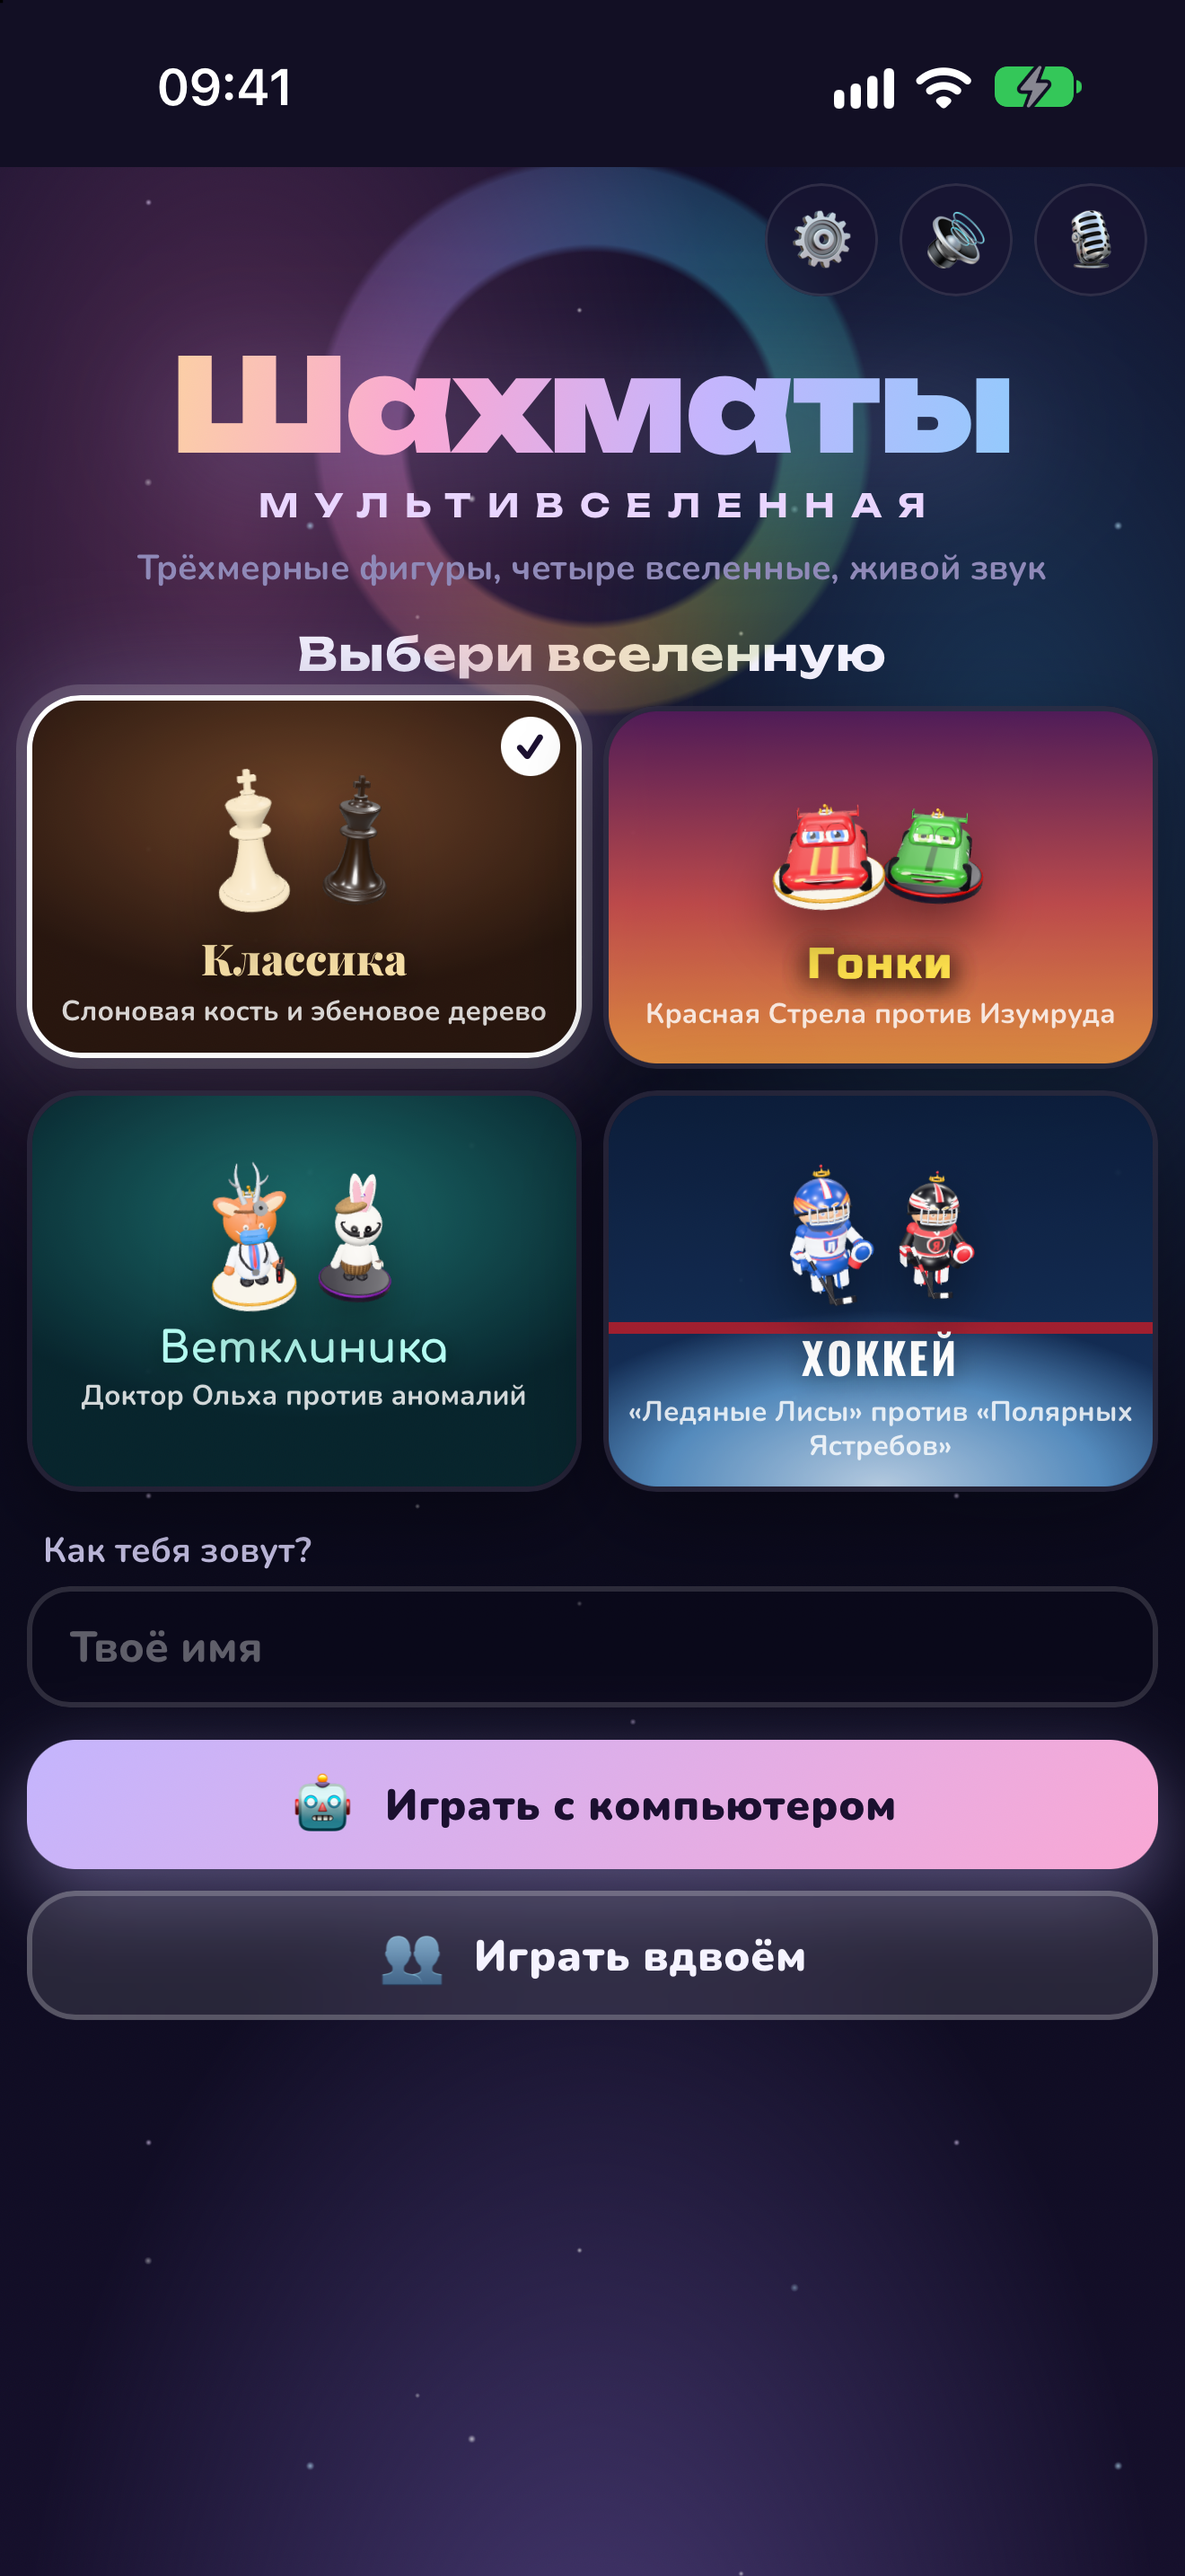
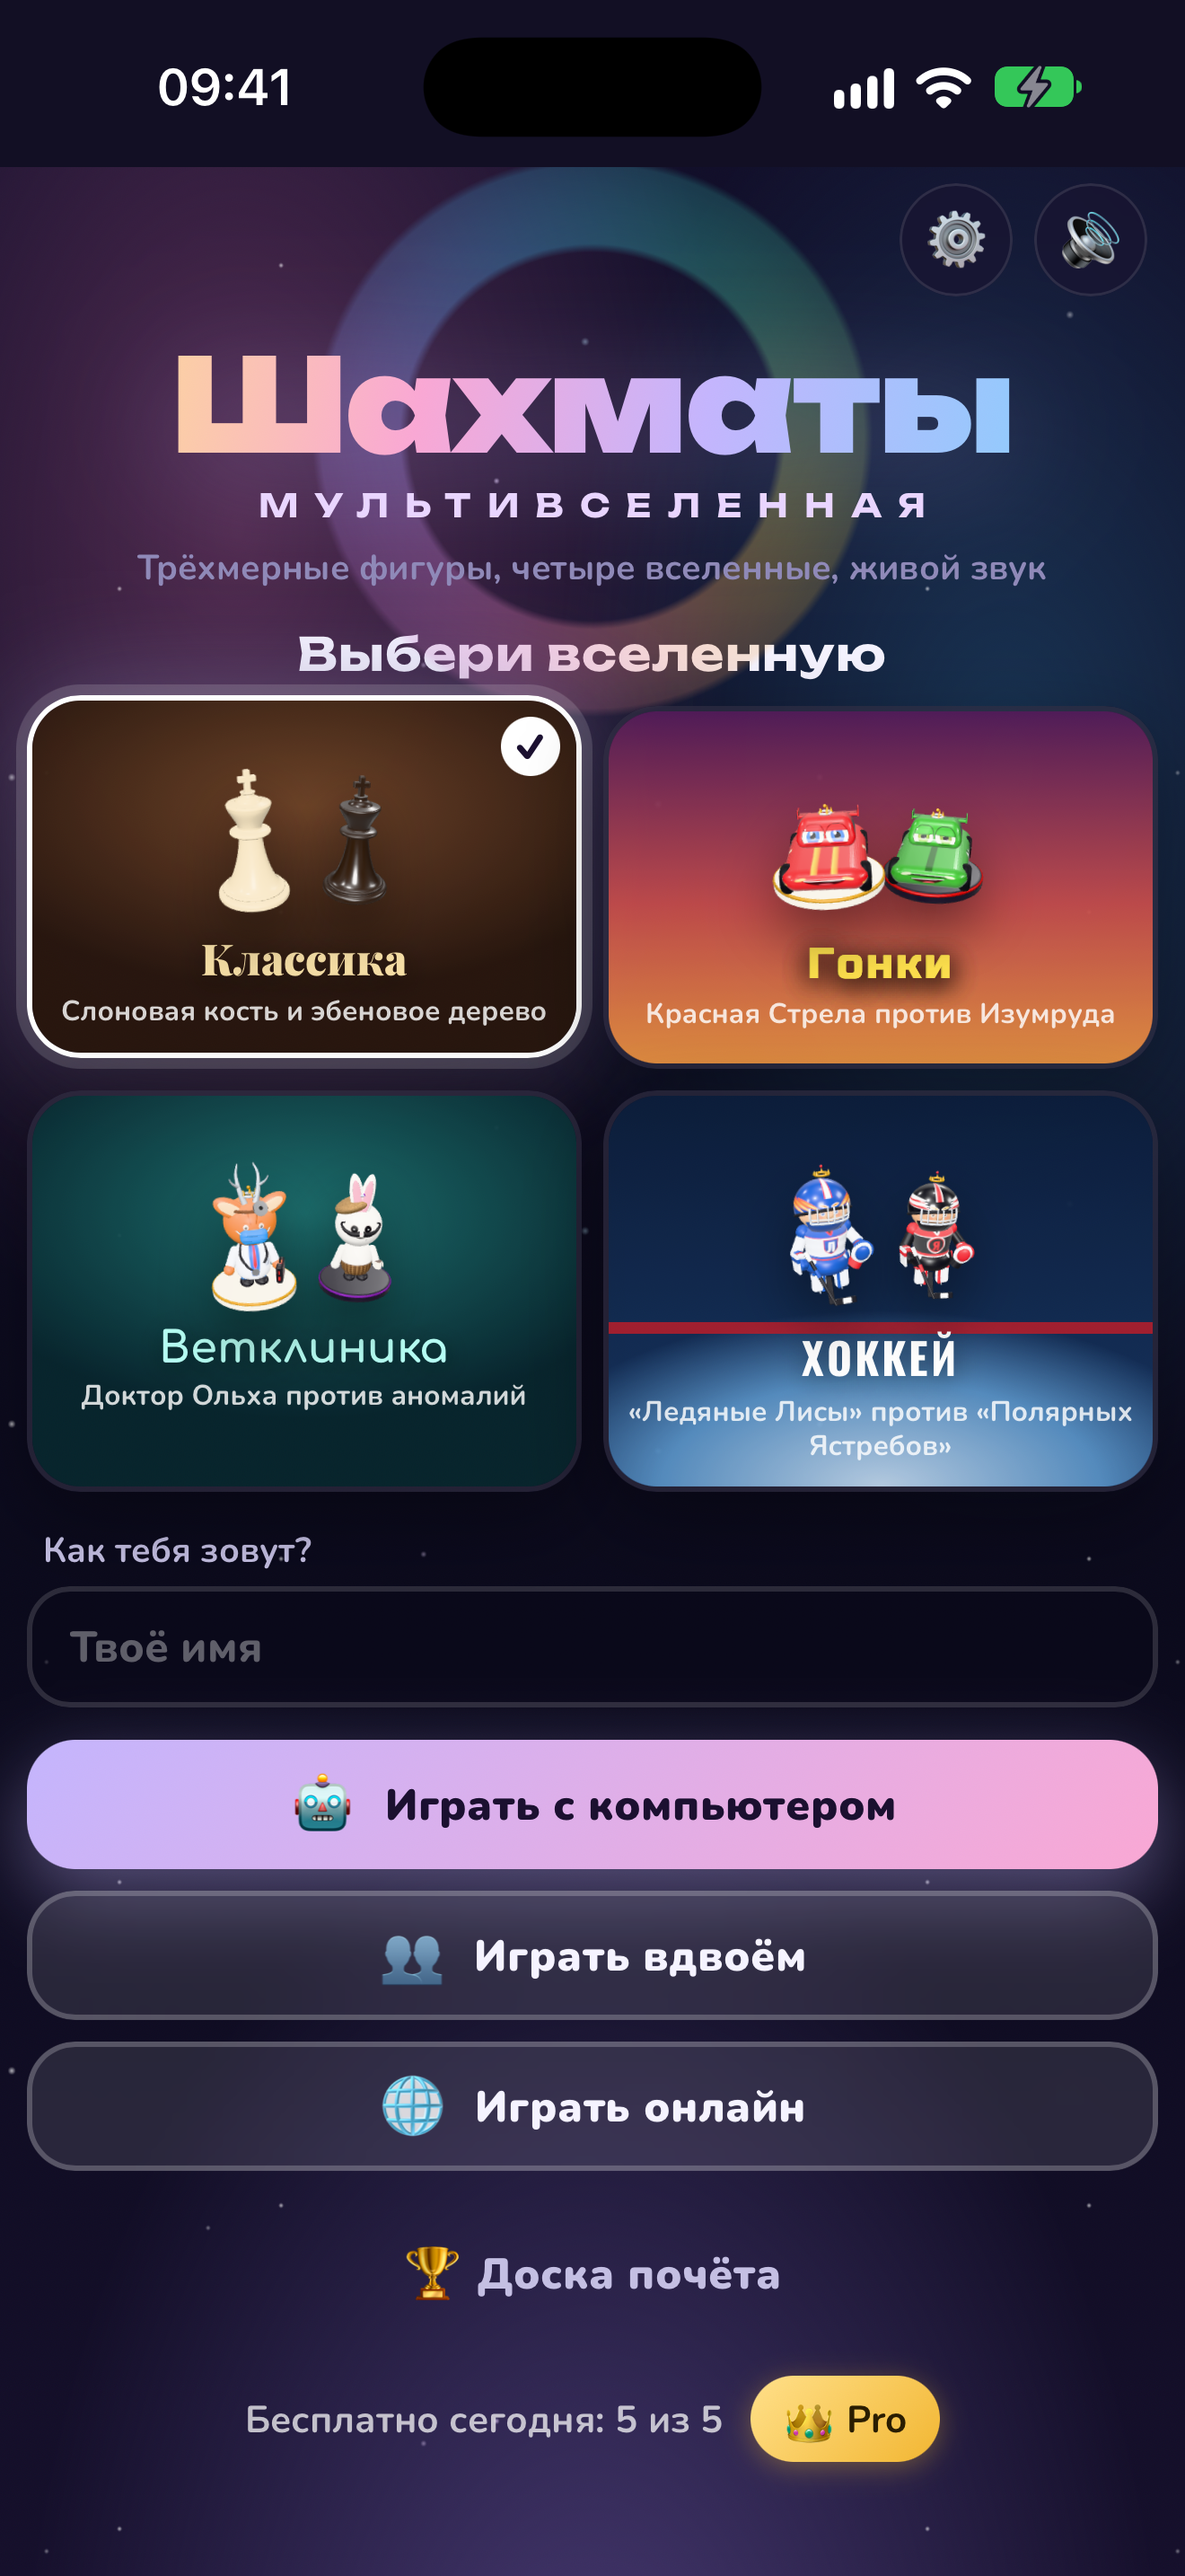
1.1: сборка 20261113, метаданные и скриншоты для App Store, фикс ширины модальных окон

diff --git a/css/styles.css b/css/styles.css
@@ -646,7 +646,7 @@ body.is-cine[data-theme="hockey"] .board-stage::after {
 .move-list .empty { grid-column: 1 / -1; color: var(--text-faint); padding: 4px 2px; font-weight: 600; font-size: 12px; }
 
 /* ---------- Модальные окна ---------- */
-.modal { position: fixed; inset: 0; z-index: 40; display: grid; place-items: center; padding: 16px; background: rgba(6, 4, 16, 0.6); backdrop-filter: blur(6px); -webkit-backdrop-filter: blur(6px); animation: fade 0.25s ease both; }
+.modal { position: fixed; inset: 0; z-index: 40; display: grid; grid-template-columns: minmax(0, 1fr); place-items: center; padding: 16px; background: rgba(6, 4, 16, 0.6); backdrop-filter: blur(6px); -webkit-backdrop-filter: blur(6px); animation: fade 0.25s ease both; }
 .modal[hidden] { display: none; }
 @keyframes fade { from { opacity: 0; } to { opacity: 1; } }
 .modal-card {

diff --git a/index.html b/index.html
@@ -10,7 +10,7 @@
     <link rel="preconnect" href="https://fonts.gstatic.com" crossorigin>
     <!-- Шрифты не блокируют первую отрисовку: без интернета страница сразу показывается системными шрифтами -->
     <link rel="stylesheet" href="https://fonts.googleapis.com/css2?family=Comfortaa:wght@600;700&family=Nunito:wght@600;700;800;900&family=Oswald:wght@500;700&family=Playfair+Display:ital,wght@0,700;0,900;1,700&family=Russo+One&family=Unbounded:wght@700;900&display=swap" media="print" onload="this.media='all'">
-    <link rel="stylesheet" href="css/styles.css?v=2.13.0">
+    <link rel="stylesheet" href="css/styles.css?v=2.13.1">
 </head>
 <body data-theme="classic" data-screen="menu">
     <!-- Фоны вселенных -->

diff --git a/CLAUDE.md b/CLAUDE.md
@@ -76,16 +76,13 @@
   Очки: победа над компьютером 1/2/3 по уровню, победа вдвоём 2, ничья 1.
 
 ## Открытые хвосты
-- Версия 1.1 (20261110) с онлайном загружена и привязана в Connect, статус «Подготовка к отправке», выпуск вручную.
-  **На проверку не отправлена.** Партия на двух устройствах не проверена. Перед отправкой: на странице версии
-  в разделе Game Center убедиться, что обе таблицы отмечены (через API это не проверено). Обновлённая
-  политика (абзац про Game Center) выложена на сайт 10.11.2026 (в `main` только `privacy/`).
-  Анкета App Privacy остаётся «Data Not Collected»: данные онлайна обрабатывает Apple.
-  **В загруженной сборке 20261110 нет починки звука (11.11), значков фигур и Pro (12.11)** — перед отправкой
-  собрать и загрузить новую сборку. При отправке версии отметить покупку ChessGM Pro в разделе
-  «Встроенные покупки» страницы версии (первая покупка уходит на проверку только вместе с версией).
-  Покупка в песочнице заработает, только если в Connect подписано соглашение Paid Apps (Business) — не проверено.
-  Стоит Debug на трёх телефонах; покупку и лимит на телефоне владелец ещё не проверял.
+- Версия 1.1 подготовлена 12.11.2026: сборка **20261113** привязана, метаданные и скриншоты (7 шт. ru/en, iPhone 6.9" = тип API `APP_IPHONE_67`, iPad 13") обновлены,
+  версия в неотправленном черновике (`READY_FOR_REVIEW`). **На проверку не отправлена.** Осталось владельцу: отметить покупку ChessGM Pro
+  (`com.chessmultiverse.app.pro`) в разделе «Встроенные покупки» страницы версии (через API отправка покупки не делалась), проверить соглашение Paid Apps
+  (Business; через API не проверить), в разделе Game Center убедиться, что обе таблицы отмечены, нажать «Отправить». Партия на двух устройствах не проверена.
+  Анкета возрастного рейтинга: после появления покупки перепроверить ответы про покупки.
+- Правка скриншотов/сборки в версии, лежащей в неотправленном черновике, заблокирована (409 «Ready For Review»): вынуть элемент `DELETE /v1/reviewSubmissionItems/<id>`,
+  править, вернуть `POST /v1/reviewSubmissionItems` (reviewSubmission + appStoreVersion). Кадры 1320×2868 принимает только `APP_IPHONE_67`.
 - Установка на телефоны: профиль разработки «ChessGM Dev GameCenter» (uuid 37cd9c45-…, с 11.11.2026; в нём
   iPhone Vlad, Gera, Alena и iPad), сборка Debug с `CODE_SIGN_STYLE=Manual PROVISIONING_PROFILE_SPECIFIER=<uuid>`
   в `build/dev`, ставить `xcrun devicectl device install app`.

diff --git a/JOURNAL.md b/JOURNAL.md
@@ -1,5 +1,15 @@
 # Журнал
 
+## 12.11.2026 (вечер) — версия 1.1 подготовлена в App Store Connect (автозапуск chessgm-1-1-appstore-prep)
+- Сборка **20261113** (1.1) выгружена ключом API (ручная подпись, профиль «ChessGM AppStore GameCenter»), обработана, привязана к версии 1.1 вместо 20261110; экспортное шифрование: нет. Предыдущая 20261112 не годится: в ней окно «Доска почёта» вылезало за экран.
+- Починка вёрстки: у `.modal` колонка сетки растягивалась по тексту (`grid-template-columns: minmax(0, 1fr)`), `css/styles.css?v=2.13.1`.
+- Скриншоты заменены (ru и en-US, по 7 штук): iPhone 6.9" (набор `APP_IPHONE_67`, 1320×2868) и iPad 13" (`APP_IPAD_PRO_3GEN_129`): меню, классика, гонки, ветклиника, хоккей, доска почёта, ChessGM Pro. На кадрах: низкий ракурс, значки фигур, лоток срубленных, «‹ Меню». Горизонтального кадра iPhone нет (поворот симулятора недоступен без живой сессии). На кадре Pro цена из StoreKit симулятора ($1.99), не 199 ₽. `shoot.sh` обновлён под новый набор кадров.
+- Описание, «Что нового», промо-текст ru/en-US обновлены (Pro, диктор, значки, лоток, доска почёта, ракурс); notes для проверяющего обновлены (есть покупка Pro, записанный голос).
+- Старый набор 6.1" (`APP_IPHONE_61`) удалён: кадры 1320×2868 в нём отклонялись (SPEC_MISMATCH).
+- Версия была в неотправленном черновике «на проверку» и блокировала правку скриншотов: элемент на время вынимался из черновика и возвращён обратно. Состояние: `READY_FOR_REVIEW`, не отправлено.
+- Покупку ChessGM Pro к версии через API не привязать (отправка покупки отклонена как действие вне просьбы) — отметить вручную.
+- Осталось владельцу: отметить покупку Pro на странице версии, проверить соглашение Paid Apps (Business), раздел Game Center (обе таблицы), нажать «Отправить на проверку».
+
 ## 12.11.2026 (ночь, 6) — «перепасовка» и локальная доска почёта
 - Хоккей: «Перепасовка у синей линии…» (неверное ударение нейроголоса) → «Передача у синей линии…», перезаписаны обе стороны.
 - Доска почёта (кнопка «🏆 Доска почёта» в меню, `recordHonor`/`showHonor`, localStorage `chess-honor`): партии с компьютером
